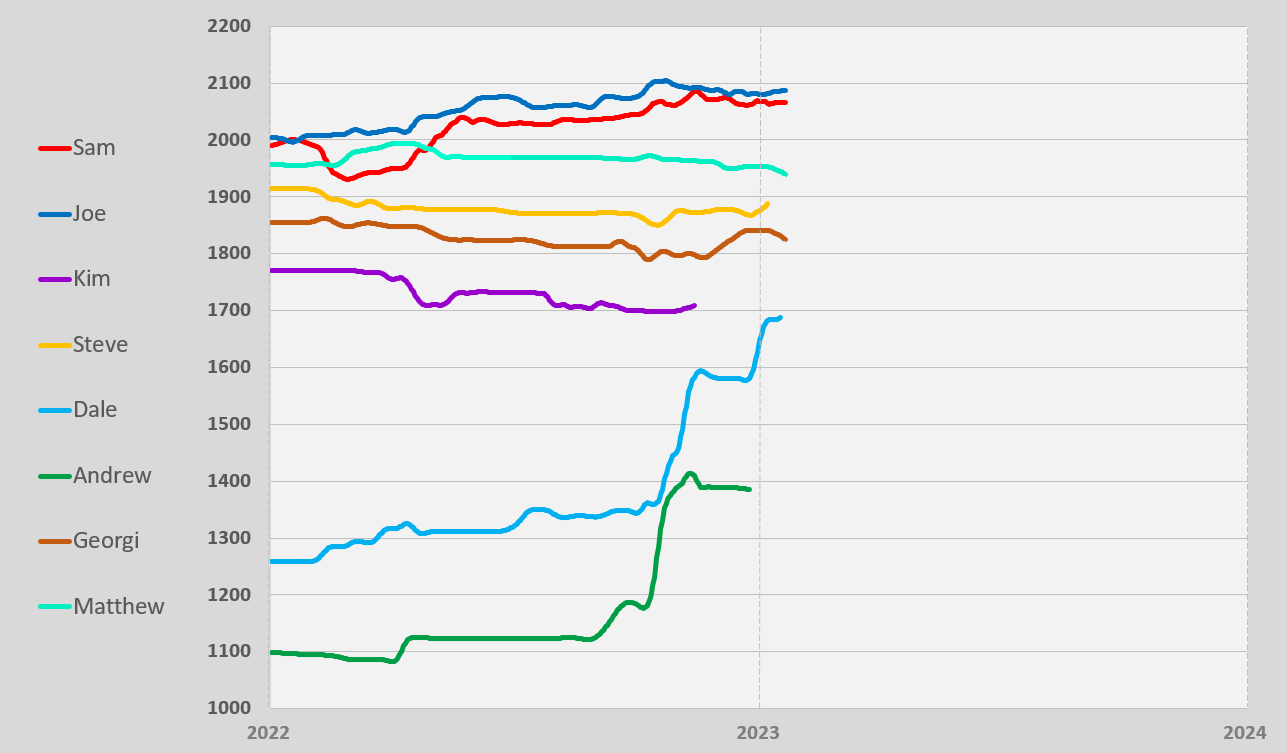
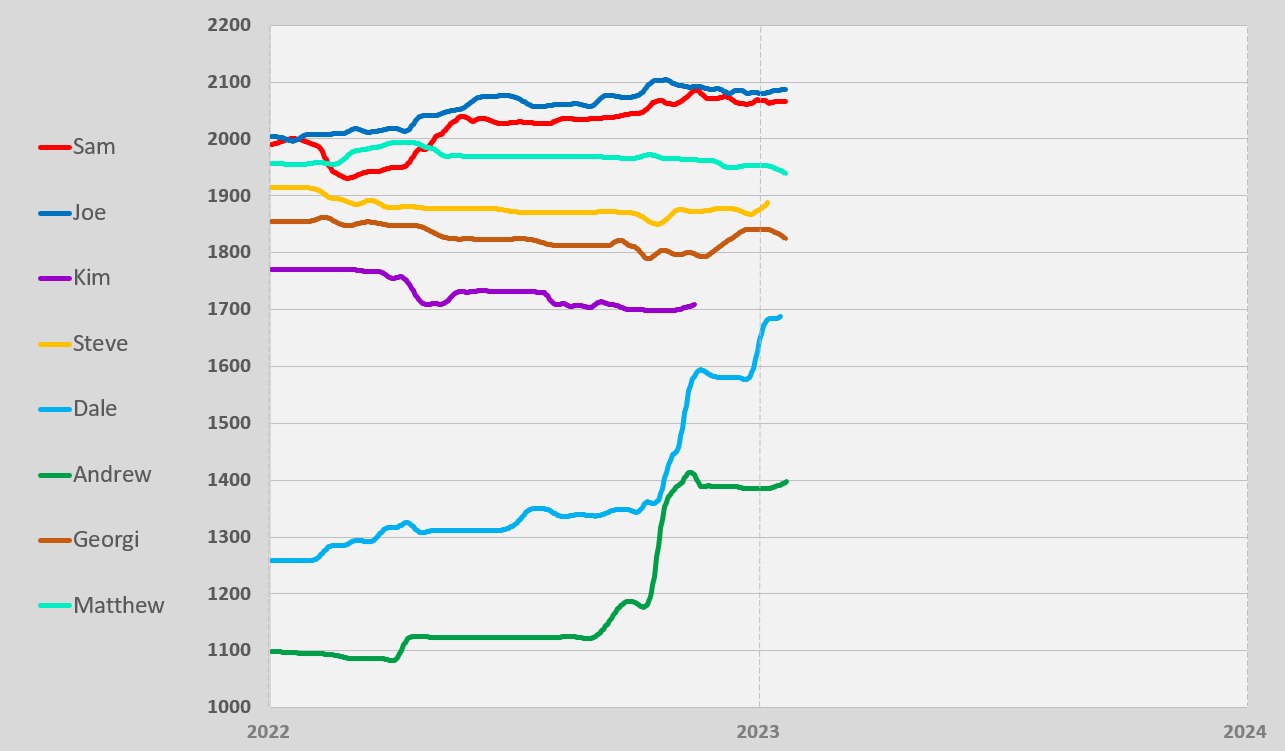
qewrtg

diff --git a/Andrew_Davies.html b/Andrew_Davies.html
@@ -11,31 +11,34 @@
 
       function drawChart() {
         var data = google.visualization.arrayToDataTable([
-        ['Game', '2022 - Part 1','2022 - Part 2'],
-          ['1', 1100,null],
-          ['2', 1095,null],
-          ['3', 1090,null],
-          ['4', 1086,null],
-          ['5', 1081,null],
-          ['6', 1124,null],
-          ['7', 1157,1157],
-          ['8', null,1183],
-          ['9', null,1178],
-          ['10', null,1179],
-          ['11', null,1222],
-          ['12', null,1241],
-          ['13', null,1260],
-          ['14', null,1279],
-          ['15', null,1322],
-          ['16', null,1342],          
-          ['17', null,1399],
-          ['18', null,1394],
-          ['19', null,1417],
-          ['20', null,1434],
-          ['21', null,1427],
-          ['22', null,1412],          
-          ['23', null,1389],          
-          ['24', null,1385]
+          ['Game', '2022 - Part 1','2022 - Part 2','2023 - Part 1'],
+          ['', 1100,null,null],
+          ['', 1095,null,null],
+          ['', 1090,null,null],
+          ['', 1086,null,null],
+          ['', 1081,null,null],
+          ['', 1124,null,null],
+          ['', 1157,1157,null],
+          ['', null,1183,null],
+          ['', null,1178,null],
+          ['', null,1179,null],
+          ['', null,1222,null],
+          ['', null,1241,null],
+          ['', null,1260,null],
+          ['', null,1279,null],
+          ['', null,1322,null],
+          ['', null,1342,null],
+          ['', null,1399,null],
+          ['', null,1394,null],
+          ['', null,1417,null],
+          ['', null,1434,null],
+          ['', null,1427,null],
+          ['', null,1412,null],
+          ['', null,1389,null],
+          ['', null,1385,null],
+          ['', null,1397,1397]
+
+
 
         ]);
 
@@ -54,7 +57,8 @@
           legend: { position: 'bottom'},
           series: {
             0: { color: '#35a7f2' },
-          },
+            1: { color: '#f20a0a' },
+            2: { color: '#24d442' },          },
           backgroundColor: "#ebebeb"
         };
 
@@ -106,7 +110,17 @@
         <tr><td>13/12/2022</td><td>League</td><td>Chris Daniel</td><td>0</td><td>1653</td><td>1385</td></tr>
 
         </tr>
-                      </table>        
+        </table>
+        
+        <h3>2023 - Part 1 /// W1 = 1385 /// k = 32</h3>
+        <table border="1" style="position: relative; height:10vh; width:90vw">
+          <tr>
+          <th>Date</th><th>Event</th><th>Name</th><th>Result</th><th>Opponent Rating</th><th>New Rating</th>
+          </tr>
+    
+          <tr><td>17/01/2023</td><td>League</td><td>Paul Headon</td><td>0.5</td><td>1734</td><td>1397</td></tr>
+ 
+          </table> 
     </body>
 
 </html>

diff --git a/index.html b/index.html
@@ -24,7 +24,7 @@
 
 
         <h2>Comparison of Ratings</h2>
-        Updated 16-01-2023
+        Updated 18-01-2023
         <br>
         *Note, there are no archives for East Glam players before 2015. Ratings before 2015 have been inferred for Joe and Sam.
         <br><br>
